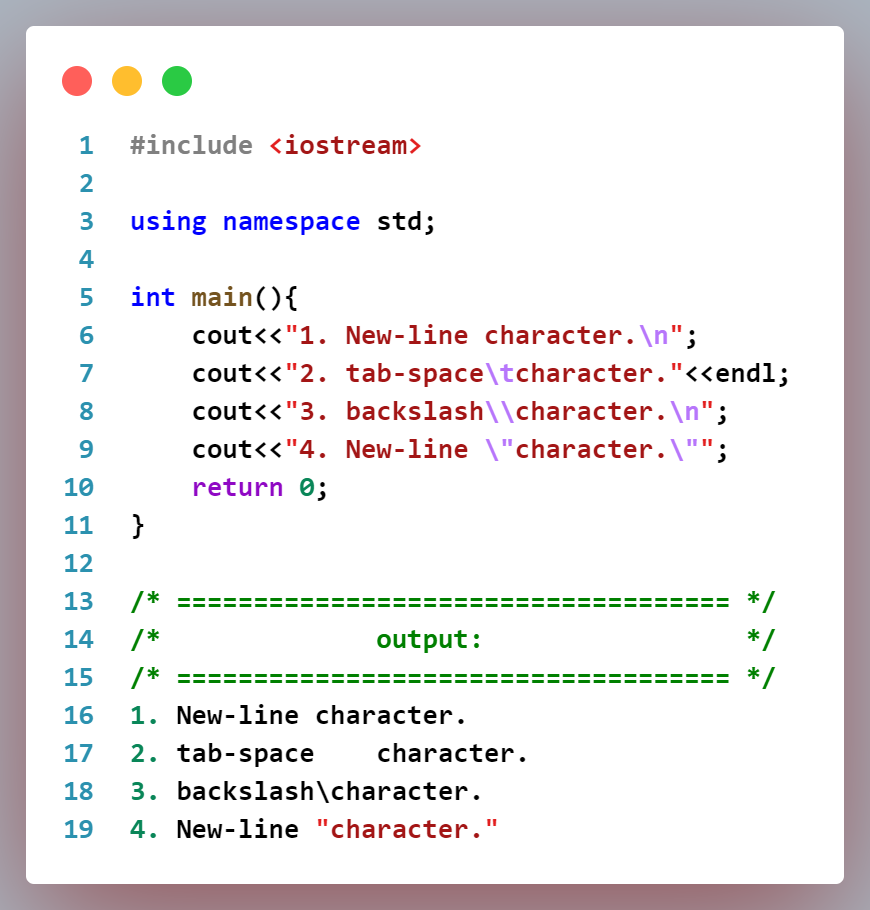
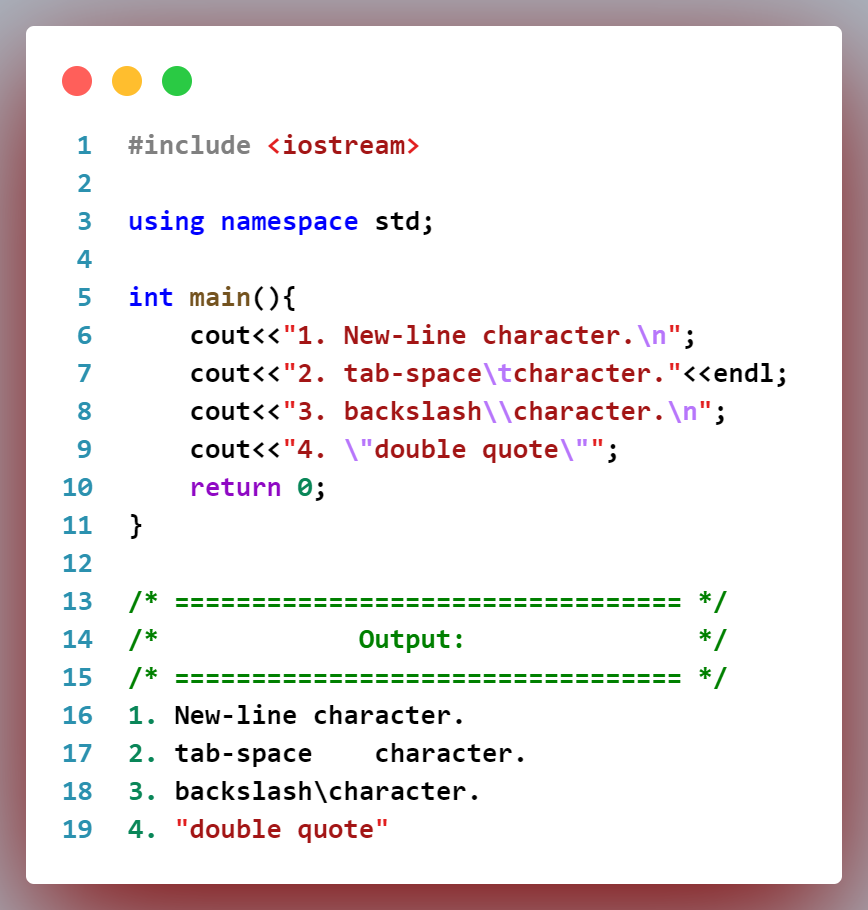
update

diff --git a/README.md b/README.md
@@ -74,15 +74,28 @@
 
       ![command to compile cpp code](./Images/compile-cpp-code.png)
 
+              >> g++ -o filename filename.cpp
+
     - **_To <u>Run</u> :_** Write command **_`filename.exe`_** in command line and **Hit Enter.**
 
       ![command to run cpp code](./Images/run-cpp-code.png)
+
+              >> filename.exe
 
 ## **Basic Structure of _`C++`_ programming:**
 
 - Here is the **basic structure** of **_`C++`_** code.
 
   ![Basic Structure of Cpp](./Images/basic-structure-of-cpp-code.png)
+
+          #include <iostream>
+
+          using namespace std;
+
+          int main(){
+            // Code goes here
+            return 0;
+          }
 
 ### **_Explanation:_**
 
@@ -96,11 +109,26 @@
 
       ![Preprocessor directive > include](./Images/preprocessor-directives-include.png)
 
+              #include <iostream>
+              #include <cmath>
+              #include <string>
+
     - **_`#define`:_** Used for **defining _constant_** or **_macros._**
 
       ![img1](./Images/preprocessor-directives-const-definition.png)
 
+              // Defining constant.
+              // Syntax:
+              #define constName constVal
+
       ![img2](./Images/preprocessor-directives-macros-definition.png)
+
+              // Defining Macros.
+              // Syntax:
+              #define MACRO_NAME(parameters) macro_body
+
+              // Example:
+              #define SQUARE(x) ((x)*(x))
 
   - **_Header file liberary: <u>`<iostream>`</u>, <u>`<cmath>`</u>, <u>`<ctime>`</u>, <u>`<fstream>`</u>, <u>`<string>`</u>_ etc.**
     - Each header file liberary offers a wide range of functionalities to use within the **_`C++`_** code.
@@ -117,11 +145,40 @@
 
     ![cout-example](./Images/cout-example.png)
 
+          #include <iostream>
+
+          using namespace std;
+          int main(){
+            cout<<"hello world";
+            cout<<"This is first cpp programm.";
+            return 0;
+          }
+
+          /* =============================== */
+          /*              Output:            */
+          /* =============================== */
+          hello worldThis is first cpp programm.
+
 - **_`endl` :_** Terminate the current line and jump into a **new-line.**
 
   - **e.g:-**
 
     ![endl-example](./Images/endl-example.png)
+
+          #include <iostream>
+
+          using namespace std;
+          int main(){
+            cout<<"hello world"<<endl;
+            cout<<"This is first cpp programm.";
+            return 0;
+          }
+
+          /* =============================== */
+          /*              Output:            */
+          /* =============================== */
+          hello world
+          This is first cpp programm.
 
 <hr style="background:linear-gradient(to right,violet,indigo,blue,green,yellow, orange, red);border-radius:50px; height:10px;border:2px solid black;">
 
@@ -139,6 +196,26 @@
 
     ![2-esc-seq](./Images/2-esc-seq-example.png)
 
+            #include <iostream>
+
+            using namespace std;
+
+            int main(){
+              cout<<"1. New-line character.\n";
+              cout<<"2. tab-space\tcharacter."<<endl;
+              cout<<"3. backslash\\character.\n";
+              cout<<"4. \"double quote\"";
+              return 0;
+            }
+
+            /* ================================= */
+            /*             Output:               */
+            /* ================================= */
+            1. New-line character.
+            2. tab-space	character.
+            3. backslash\character.
+            4. "double quote"
+
 <hr style="background:linear-gradient(to right,violet,indigo,blue,green,yellow, orange, red);border-radius:50px; height:10px;border:2px solid black;">
 
 ## **Comment style in _`Cpp` :_**
@@ -146,5 +223,14 @@
 - There are two ways to write comment in _`Cpp`_.
 
   ![comment-style](./Images/comment-style.png)
+
+        // This is single line comment.
+
+        /*
+        This
+        is
+        multiline
+        comment.
+        */
 
 <hr style="background:linear-gradient(to right,violet,indigo,blue,green,yellow, orange, red);border-radius:50px; height:10px;border:2px solid black;">
